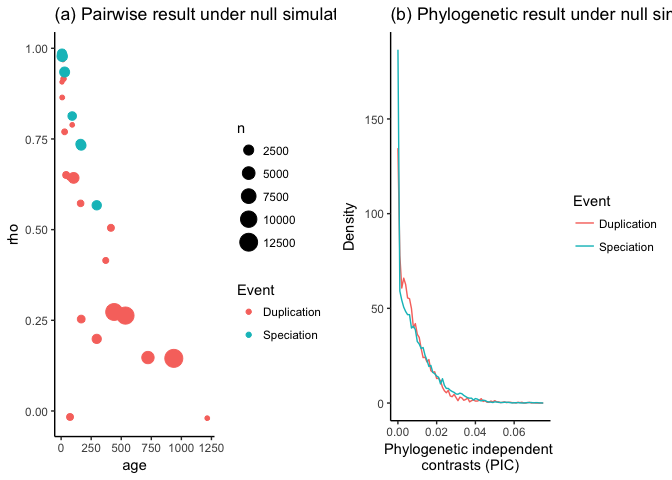
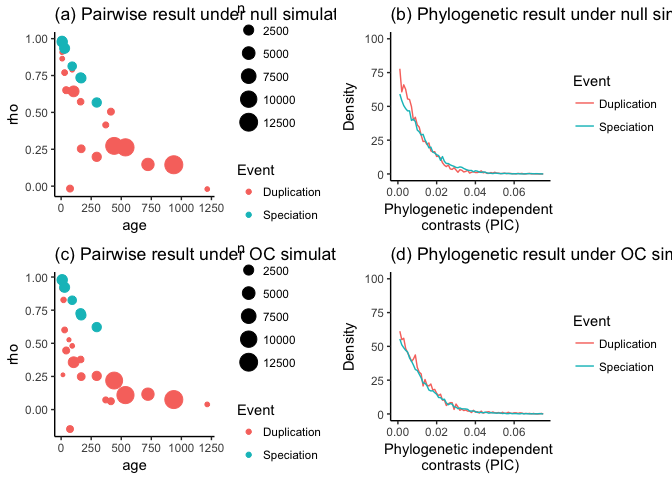
added oc simulation

diff --git a/manuscript.md b/manuscript.md
@@ -139,7 +139,7 @@ These analyses illustrate how important it is to not conflate evolutionary patte
 Methods
 -------
 
-All files needed to re-execute the analyses presented in this document are available at <https://github.com/caseywdunn/comparative_expression_2017>. The most recent commit at the time of the analysis presented here was e9735510c94e7d298974142c202dfe11fb6b28e9. See the `readme.md` file in this repository for more information on the contents of the source file and how to re-execute them.
+All files needed to re-execute the analyses presented in this document are available at <https://github.com/caseywdunn/comparative_expression_2017>. The most recent commit at the time of the analysis presented here was 21e2b9a040968f9ec8eace88e6aebb4edf6e2837. See the `readme.md` file in this repository for more information on the contents of the source file and how to re-execute them.
 
 ### KMRR reanalysis
 
@@ -251,7 +251,9 @@ We examined the ensitivity of our results to the specification of calibration da
 
 > Figure XXSim
 
-We first simulated an analysis under the null model that tau evolves at the same rate following duplication and speciation events. Under the null model, pairwise approaches are very similar as for the observed data (Figure XXSim a), with higher rho for orthologs (0.752092) than paralogs (0.2698659). Phylogenetic approaches do show similar divergence following speciation and duplication (Figure XXSim b) and does not reject the null hypothesis that the rates differ (Wilcoxon p=0.7750778).
+We first simulated a data set under the null model that tau evolves at the same rate following duplication and speciation events. Under the null model, pairwise analysis results (Figure XXSim a) are very similar as for the observed data, with higher rho for orthologs (0.752092) than paralogs (0.2698659). In the phylogenetic analysis of the null simulation, contrasts show similar divergence following speciation and duplication (Figure XXSim b) and does not reject the null hypothesis (Wilcoxon p=0.7750778).
+
+We next simulated a data set under the ortholog conjecture, where the rate of evolution of Tau following duplication was 2 fold the rate following speciation. The results of this heterogeneous model are nearly indistinguishable from the null model (Figure XXSim c), and also have a higher rho for orthologs (0.7629479) than paralogs (0.1753878). In the phylogenetic analysis of the ortholog conjecture simulation, contrasts XX (Figure XXSim c) and XX (Wilcoxon p=1.057302310^{-11}).
 
 References
 ----------
